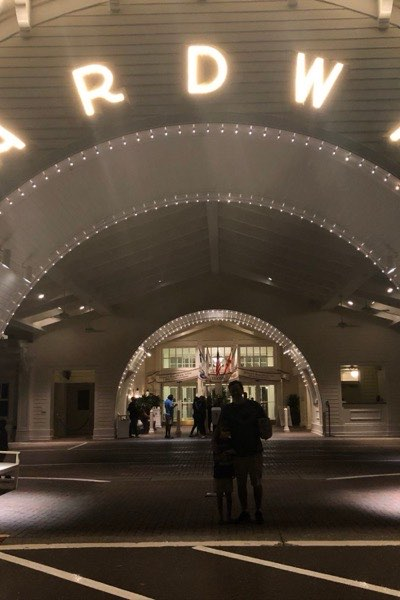
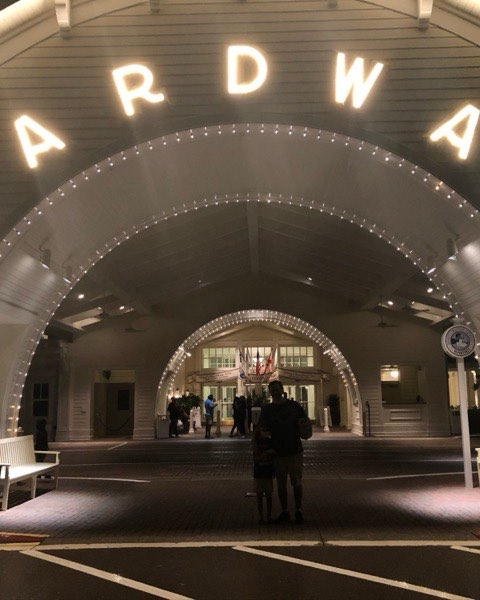
Square the dashboard cards up from 2:3 to 4:5
4:5 keeps more of every source I have: 94% of a portrait phone photo
against 89%, and 60% of a landscape one against 50% — BoardWalk gains
a fifth of its arch back. It also fits six cards in the height that
took four, and gives the wide photo on a pasted postcard more of the
card to sit in.

The two shapes now split cleanly by surface: the booking hero stays a
2.5:1 banner, the dashboard card is 4:5.

diff --git a/index.html b/index.html
@@ -115,7 +115,7 @@
 
   /* Vacation Plans: portrait cards, DVC-style */
   #trip-list{display:grid;grid-template-columns:repeat(3,1fr);gap:14px}
-  .pcard{position:relative;aspect-ratio:2/3;border-radius:15px;overflow:hidden;cursor:pointer;background:var(--panel);border:1px solid var(--line);box-shadow:0 3px 14px rgba(0,0,0,.45);transition:transform .16s,box-shadow .16s}
+  .pcard{position:relative;aspect-ratio:4/5;border-radius:15px;overflow:hidden;cursor:pointer;background:var(--panel);border:1px solid var(--line);box-shadow:0 3px 14px rgba(0,0,0,.45);transition:transform .16s,box-shadow .16s}
   .pcard:hover{transform:translateY(-2px);box-shadow:0 7px 20px rgba(0,0,0,.55)}
   .pcard.sel{outline:2px solid var(--gold);outline-offset:2px}
   .pcard.wait{border-style:dashed}
@@ -438,7 +438,7 @@ function load(){try{const r=localStorage.getItem(KEY);if(r)db=JSON.parse(r);}cat
   let mig=false;const km={};db.trips.forEach(t=>{if(!t.bid){const k=(t.resort||'')+'|'+(t.dates||'')+'|'+t.uy;if(!km[k])km[k]=uid();t.bid=km[k];mig=true;}});if(mig)save();}
 function save(){try{localStorage.setItem(KEY,JSON.stringify(db));}catch(e){alert('Could not save — storage may be full (photos use space).');}}
 function uid(){return Date.now().toString(36)+Math.random().toString(36).slice(2,6);}
-const BUILD='2026.11.22-4';  /* bump when shipping — shown in the footer so a stale cached copy is identifiable */
+const BUILD='2026.11.22-5';  /* bump when shipping — shown in the footer so a stale cached copy is identifiable */
 const UY_MONTH={February:2,March:3,April:4,June:6,August:8,September:9,October:10,December:12};
 function bankingDeadline(m,y){const s=UY_MONTH[m];if(!s)return null;let mo=s+8,yy=y;if(mo>12){mo-=12;yy+=1;}const M=['January','February','March','April','May','June','July','August','September','October','November','December'];return M[mo-1]+' 1, '+yy;}
 function lastDay(m,y){return new Date(y,m,0).getDate();}
@@ -593,8 +593,9 @@ function uniqSvg(svg){const n=++svgSeq;return svg.replace(/id="([^"]+)"/g,(m,id)
 /* Vacation Plans are portrait cards: a photo of the resort or its drawn postcard,
    a countdown badge, and the dates. Tapping one opens its detail below the grid
    instead of expanding in place, so a long list stays scannable.
-   Card art is 2:3 — a third crop of the same photos, because the booking hero is
-   2.5:1 and neither shape suits the other. */
+   Card art is 4:5 — a third crop of the same photos, because the booking hero is
+   2.5:1 and neither shape suits the other. 4:5 keeps more of a portrait phone
+   photo than 2:3 does, and far more of a landscape one. */
 const CARD_PHOTOS={'polynesian villas':'img/card-polynesian.jpg',
 'boardwalk':'img/card-boardwalk.jpg',
 'old key west':'img/card-old-key-west.jpg',
